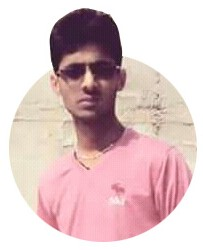
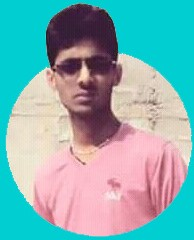
Add files via upload

diff --git a/team.htm b/team.htm
@@ -197,53 +197,11 @@ img.hover-shadow {
 }
 
 </style>
-<script>
-// Open the Modal
-function openModal() {
-  document.getElementById('myModal').style.display = "block";
-}
-
-// Close the Modal
-function closeModal() {
-  document.getElementById('myModal').style.display = "none";
-}
-
-var slideIndex = 1;
-showSlides(slideIndex);
-
-// Next/previous controls
-function plusSlides(n) {
-  showSlides(slideIndex += n);
-}
-
-// Thumbnail image controls
-function currentSlide(n) {
-  showSlides(slideIndex = n);
-}
-
-function showSlides(n) {
-  var i;
-  var slides = document.getElementsByClassName("mySlides");
-  var dots = document.getElementsByClassName("demo");
-  var captionText = document.getElementById("caption");
-  if (n > slides.length) {slideIndex = 1}
-  if (n < 1) {slideIndex = slides.length}
-  for (i = 0; i < slides.length; i++) {
-    slides[i].style.display = "none";
-  }
-  for (i = 0; i < dots.length; i++) {
-    dots[i].className = dots[i].className.replace(" active", "");
-  }
-  slides[slideIndex-1].style.display = "block";
-  dots[slideIndex-1].className += " active";
-  captionText.innerHTML = dots[slideIndex-1].alt;
-}
-</script>
 
 
 
-<body style="background-image:url(nitimage.jpg); background: no-repeat cover; opacity: 0.90;
-    filter: alpha(opacity=50);" >
+
+<body style="background-color: #00CED1">
 
 <!-- TOP NAVBAR -->
 <div id="topNavBar">
@@ -341,75 +299,24 @@ function showSlides(n) {
 
 <div class="row">
   <div class="col-3">
-    <img src="pallav.jpg" onclick="openModal();currentSlide(1)" class="hover-shadow">
+    <img style="border-radius:50%;" src="pallav.jpg"  class="hover-shadow">
 	<h3>Pallav Priyam</h3>
   </div>
   <div class="col-3">
-    <img src="cheif.jpg" onclick="openModal();currentSlide(2)" class="hover-shadow">
+    <img style="border-radius:50%;" src="cheif.jpg" class="hover-shadow">
 	<h3>Prakhar Tiwari</h3>
   </div>
   <div class="col-3">
-    <img src="vasu.jpg" onclick="openModal();currentSlide(3)" class="hover-shadow">
+    <img style="border-radius:50%;" src="vasu.jpg" class="hover-shadow">
 	<h3>Vasu Jain</h3>
   </div>
   <div class="col-3">
-    <img src="mukesh.jpg" onclick="openModal();currentSlide(4)" class="hover-shadow">
+    <img style="border-radius:50%;" src="mukesh.jpg" class="hover-shadow">
 	<h3>Mukesh Sihag</h3>
   </div>
 </div> 
 </div>
-<!-- The Modal/Lightbox -->
-<div id="myModal" class="modal">
-  <span class="close cursor" onclick="closeModal()">&times;</span>
-  <div class="modal-content">
 
-    <div class="mySlides">
-      <div class="numbertext">1 / 4</div>
-      <img src="pallav.jpg" style="width:100%">
-    </div>
-
-    <div class="mySlides">
-      <div class="numbertext">2 / 4</div>
-      <img src="cheif.jpg" style="width:100%">
-    </div>
-
-    <div class="mySlides">
-      <div class="numbertext">3 / 4</div>
-      <img src="vasu.jpg" style="width:100%">
-    </div>
-
-    <div class="mySlides">
-      <div class="numbertext">4 / 4</div>
-      <img src="mukesh.jpg" style="width:100%">
-    </div>
-
-    <!-- Next/previous controls -->
-    <a class="prev" onclick="plusSlides(-1)">&#10094;</a>
-    <a class="next" onclick="plusSlides(1)">&#10095;</a>
-
-    <!-- Caption text -->
-    <div class="caption-container">
-      <p id="caption"></p>
-    </div>
-
-    <!-- Thumbnail image controls -->
-    <div class="column">
-      <img class="demo" src="pallav.jpg" onclick="currentSlide(1)" alt="Nature">
-    </div>
-
-    <div class="column">
-      <img class="demo" src="cheif.jpg" onclick="currentSlide(2)" alt="Trolltunga">
-    </div>
-
-    <div class="column">
-      <img class="demo" src="vasu.jpg" onclick="currentSlide(3)" alt="Mountains">
-    </div>
-
-    <div class="column">
-      <img class="demo" src="mukesh.jpg" onclick="currentSlide(4)" alt="Lights">
-    </div>
-  </div>
-</div>
 
 </div>
 

diff --git a/NITH QUORA.htm b/NITH QUORA.htm
@@ -23,8 +23,7 @@
 
 
 
-<body style="background-image:url(nitimage.jpg); background: no-repeat cover; opacity: 0.90;
-    filter: alpha(opacity=50);">
+<body style= "background:url(nitimage.jpg); background-size:100%; ">
 
 <!-- TOP NAVBAR -->
 <div id="topNavBar">
